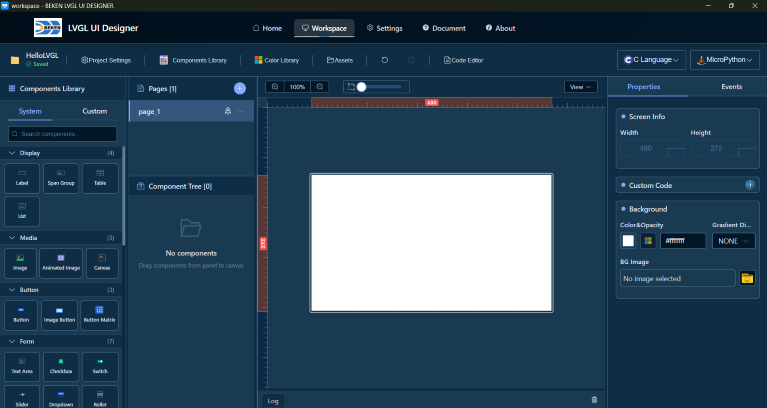
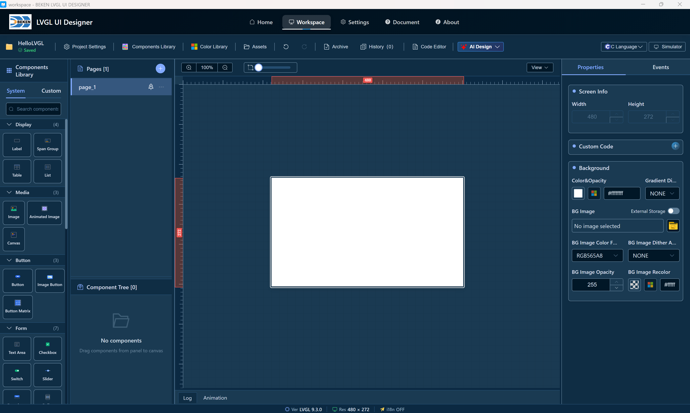
v3.0.1 releasenotes

diff --git a/doc/en/workspace-custom-code.md b/doc/en/workspace-custom-code.md
@@ -1,6 +1,6 @@
 # 🔧 Custom Code
 
-Besides designing the UI visually, you may need to add your own C or MicroPython logic. The tool offers **two approaches**—pick the one that fits your workflow, and **do not duplicate the same logic in both places**.
+Besides designing the UI visually, you may need to add your own C logic. The tool offers **two approaches**—pick the one that fits your workflow, and **do not duplicate the same logic in both places**.
 
 ---
 
@@ -11,7 +11,7 @@ Besides designing the UI visually, you may need to add your own C or MicroPython
 | **Where to edit** | Properties panel, event editor | Keil, VS Code, etc., open the `beken_generated` folder |
 | **Stored in** | Project file (saved with the project) | `.c` / `.h` files on disk |
 | **After regenerate** | Re-injected from the project | Only code **inside** `BEKEN_USER_CODE` markers is kept |
-| **Best for** | Quick experiments, MicroPython projects | C firmware, SDK integration, complex logic |
+| **Best for** | Quick experiments | C firmware, SDK integration, complex logic |
 
 **In-designer** has three entry points (all saved in the project):
 
@@ -41,9 +41,7 @@ Use when the page needs extra setup on load.
 2. Properties panel → **Custom Code** → **Add / Edit**
 3. Fill in **#include and variables** (inside `BEKEN_USER_CODE includes` in `page_*_init.c`) and **Implementation** (inside `BEKEN_USER_CODE implementation` in `init_page_xxx()`)
 
-> **Tip**: For C, page custom code shares the same `BEKEN_USER_CODE` markers with external IDE additions; designer content is refreshed on regenerate, hand-written content after it is preserved.
-
-> **Tip**: Supports both **C** and **MicroPython** tabs.
+> **Tip**: Page custom code shares the same `BEKEN_USER_CODE` markers with external IDE additions; designer content is refreshed on regenerate, hand-written content after it is preserved.
 
 ### Event custom code
 

diff --git a/doc/zh-cn/workspace-custom-code.md b/doc/zh-cn/workspace-custom-code.md
@@ -1,6 +1,6 @@
 # 🔧 自定义代码
 
-除了拖拽设计界面，您有时还需要补充自己的 C / MicroPython 逻辑。工具提供**两种方式**，请根据习惯选择，**不要在同一处重复写相同代码**。
+除了拖拽设计界面，您有时还需要补充自己的 C 逻辑。工具提供**两种方式**，请根据习惯选择，**不要在同一处重复写相同代码**。
 
 ---
 
@@ -11,7 +11,7 @@
 | **在哪里写** | 设计器属性面板、事件编辑器 | Keil、VS Code 等，打开 `beken_generated` 目录 |
 | **保存在哪** | 工程文件（随项目一起保存） | 磁盘上的 `.c` / `.h` 文件 |
 | **重新生成后** | 自动从工程写回 | 仅 `BEKEN_USER_CODE` 注释**里面**的代码会保留 |
-| **适合谁** | 快速试逻辑、MicroPython 项目 | C 固件开发、对接 SDK、写复杂业务 |
+| **适合谁** | 快速试逻辑 | C 固件开发、对接 SDK、写复杂业务 |
 
 **设计器内**包含三种入口，本质相同（都保存在工程里）：
 
@@ -41,9 +41,7 @@
 2. 属性面板 → **「自定义代码」** → **添加 / 编辑**
 3. 填写 **#include 和变量**（写入 `page_*_init.c` 的 `BEKEN_USER_CODE includes` 内）、**功能实现**（写入 `init_page_xxx()` 的 `BEKEN_USER_CODE implementation` 内）
 
-> **提示**：C 语言下，页面自定义代码与外部 IDE 追加代码共用同一对 `BEKEN_USER_CODE` 注释；设计器内容在重新生成时自动更新，其后手写内容会保留。
-
-> **提示**：支持 **C 语言** 与 **MicroPython** 两个标签页。
+> **提示**：页面自定义代码与外部 IDE 追加代码共用同一对 `BEKEN_USER_CODE` 注释；设计器内容在重新生成时自动更新，其后手写内容会保留。
 
 ### 2. 事件自定义代码
 

diff --git a/doc/en/getting-started.md b/doc/en/getting-started.md
@@ -26,6 +26,7 @@ When you first launch BEKEN LVGL UI Designer, you will see the home page with th
 3. Configure project information:
    - **Project Name**: Name your project (only numbers, letters, and underscores allowed)
    - **Save Location**: Choose the folder to save the project
+   - **LVGL Version**: Choose the target LVGL version (8.4.0 and 9.3.0 are recommended; 9.2.2 / 9.4.0 / 9.5.0 / 9.6.0 are experimental)
    - **Screen Size**: Set the screen resolution of the target device (e.g., 480x272)
 
 ![UI Designer Interface](/doc/images/create_step_2.png)
@@ -72,9 +73,12 @@ After creating the project, you will enter the workspace interface, which consis
 
 ### Preview Interface
 
-1. Select preview method:
-   - **C Language** - For standard LVGL projects, click **Generate + Compile + Run** in the menu
-   - **MicroPython** - For MicroPython environments, click **Generate + Run** in the menu
+1. Click the **"Simulator"** button in the toolbar to open the built-in JS simulator and preview immediately with the project's LVGL version—no external toolchain required
+2. Or click the **"C Language"** dropdown button and choose an operation:
+   - **Generate+Compile+Run** - Compile and run in the external simulator window (for standard LVGL projects)
+   - **Generate / Compile / Run** - Run each step separately
+   - **Full Clean** - Clean up generated artifacts
+3. The bottom **Log** panel opens automatically during execution, showing generation, compilation, and run output
 4. Code is generated in the project directory
 
 ![UI Designer Interface](/doc/images/simulator.png)

diff --git a/doc/zh-cn/getting-started.md b/doc/zh-cn/getting-started.md
@@ -26,6 +26,7 @@
 3. 配置项目信息：
    - **项目名称**：为您的项目命名(项目名称只能包含：数字，字母，下划线)
    - **保存位置**：选择项目保存的文件夹
+   - **LVGL版本**：选择目标 LVGL 版本（推荐 8.4.0 或 9.3.0；9.2.2 / 9.4.0 / 9.5.0 / 9.6.0 为实验性支持）
    - **屏幕尺寸**：设置目标设备的屏幕分辨率（例如：480x272）
 
 ![UI Designer 界面](/doc/images/create_step_2.png)
@@ -72,13 +73,13 @@
 
 ### 预览界面
 
-1. 点击工具栏 **「C语言」** 或 **「MicroPython」** 按钮
-2. 在下拉菜单中选择操作：
-   - **C 语言** - 适用于标准 LVGL 项目，可选择 **生成代码+编译+运行** 等操作
-   - **MicroPython** - 适用于 MicroPython 环境，可选择 **生成代码+运行** 等操作
+1. 点击工具栏 **「模拟器」** 按钮，在应用内直接打开 JS 模拟器，按项目选择的 LVGL 版本即时预览，无需外部工具链
+2. 或点击 **「C语言」** 下拉按钮，选择操作：
+   - **生成代码+编译+运行** - 编译并在外部模拟器窗口中运行，适用于标准 LVGL 项目
+   - **生成代码 / 编译 / 运行** - 分步执行
+   - **全部清理** - 清理生成产物
 3. 执行过程中会自动打开底部 **日志** 面板，显示生成、编译与运行的输出信息
-4. 选择 **运行** 或上述组合操作后，可查看界面预览效果
-5. 生成的代码保存在项目目录下
+4. 生成的代码保存在项目目录下
 
 ![UI Designer 界面](/doc/images/simulator.png)
 

diff --git a/doc/en/release-notes.md b/doc/en/release-notes.md
@@ -397,3 +397,24 @@ This document records all version updates for BEKEN LVGL UI Designer.
 - Support renaming projects
 - Support duplicating projects
 - Support removing projects from home page cards
+
+### 3.0.1
+
+#### Features
+
+- Simulator upgraded from MicroPython to JS + WASM rendering, providing better consistency and performance
+- Added **multi-LVGL-version support**: 8.4.0 / 9.2.2 / 9.3.0 / 9.4.0 / 9.5.0 / 9.6.0
+- AI Design now supports Qoder
+- Timeline animation now supports Rotation keyframes
+
+#### Optimizations
+
+- Improved responsiveness when opening projects, dragging/selecting on the canvas, and using the property panel
+- Improved canvas performance for high-resolution projects and projects with a large number of widgets
+- Improved canvas interaction experience
+
+#### Bug Fixes
+
+- Fixed some component style and property fields not taking effect
+- Fixed the failure to compile the PC simulator when dynamic TTF fonts are stored on an SD card or Flash and only "C Compile" is clicked
+- Button default text alignment changed to center, and a Padding style group is exposed

diff --git a/doc/zh-cn/release-notes.md b/doc/zh-cn/release-notes.md
@@ -405,3 +405,26 @@
 - 支持修改工程名称
 - 支持复制工程
 - 支持从首页卡片中移除工程
+
+
+### 3.0.1
+
+#### 功能
+
+- 模拟器由MicroPython升级为JS + WASM渲染，一致性更强，性能更好
+- 新增 **LVGL 多版本支持**：8.4.0 / 9.2.2 / 9.3.0 / 9.4.0 / 9.5.0 / 9.6.0
+- AI 设计新增 Qoder 编辑器支持
+- 时间轴动画关键帧新增旋转（Rotation）属性支持
+
+
+#### 优化
+
+- 优化打开工程、画布拖拽/选择与属性面板的响应性能
+- 优化大分辨率工程、大量组件工程的画布性能体验
+- 优化画布交互体验
+
+#### Bug修复
+
+- 修复了部分组件样式、属性字段不生效的问题
+- 修复动态 TTF 字体存储在 SD 卡或 Flash 时，单独点击“C 编译”会导致电脑模拟器编译失败的问题
+- 按钮组件默认文本对齐方式改为居中，并开放内边距（Padding）样式组

diff --git a/doc/zh-cn/workspace-ai-design.md b/doc/zh-cn/workspace-ai-design.md
@@ -225,7 +225,7 @@ AI 可通过 MCP 完成常见设计操作，例如：
 
 | 现象 | 处理方式 |
 | --- | --- |
-| **「AI设计」按钮灰色不可用** | 当前有 C 语言或 MicroPython 预览 / 编译 / 运行在进行。停止相关操作后再试。 |
+| **「AI设计」按钮灰色不可用** | 当前有 C 语言编译 / 运行或 JS 模拟器正在进行。停止相关操作后再试。 |
 | **下拉菜单显示「未安装」** | 电脑上未安装 Cursor、Codex 或 TRAE。请先安装对应 AI 工具。 |
 | **提示无法修改界面 / 未打开项目** | 请先在 Designer 中打开项目并进入工作台，再从「AI设计」启动。 |
 | **提示未进入工作台** | 请从项目管理页进入项目工作台，不要停留在首页。 |

diff --git a/doc/en/workspace-ai-design.md b/doc/en/workspace-ai-design.md
@@ -225,7 +225,7 @@ Some advanced features (complex event chains, fine-grained timeline animation tu
 
 | Issue | What to do |
 | --- | --- |
-| **AI Design button is disabled** | C or MicroPython preview / compile / run is active. Stop it and try again. |
+| **AI Design button is disabled** | A C language compile/run or the JS simulator is active. Stop it and try again. |
 | **Dropdown shows "Not installed"** | Cursor, Codex, TRAE, or TRAE CN is not installed. Install the AI tool first. |
 | **Cannot modify UI / no project open** | Open a project and enter the workspace in Designer, then launch from **AI Design**. |
 | **Not in workspace** | Enter the project workspace from the home page; do not stay on the project list. |

diff --git a/doc/en/workspace-archive-history.md b/doc/en/workspace-archive-history.md
@@ -26,9 +26,9 @@ After the archive is created, the button in the Current Version card changes to 
 
 <img src="/doc/images/archive_history_dialog.png" alt="Archives and History Dialog" style="max-width: 680px; width: 90%; height: auto; display: block; margin: 16px auto;" />
 
-## Run MicroPython Preview
+## Preview in the Simulator
 
-In the history dialog, click the **MicroPython** button in the upper-right corner of the preview area to generate and run MicroPython based on the currently displayed version.
+After selecting a version, click the **"Run in Simulator"** button above the preview area to preview that version in the built-in JS simulator.
 
 ## Restore an Archived Version
 

diff --git a/doc/zh-cn/workspace-toolbar.md b/doc/zh-cn/workspace-toolbar.md
@@ -88,7 +88,7 @@
 #### 代码预览
 
 **查看生成的代码**：
-1. 点击工具栏 **「C语言」** 或 **「MicroPython」** 按钮进行预览
+1. 点击工具栏 **「模拟器」** 按钮在应用内直接预览，或点击 **「C语言」** 下拉按钮编译并在外部模拟器窗口中运行
 2. 使用 **代码编辑器** 查看 `beken_generated` 目录下的生成文件
    - 生成文件（如 `page_*_init.c`）为**只读**
    - 仅 `custom/` 目录与 `custom_func.c/h` 可在设计器内编辑

diff --git a/doc/zh-cn/workspace-archive-history.md b/doc/zh-cn/workspace-archive-history.md
@@ -28,9 +28,9 @@
 选择历史版本后，可以在左侧页面列表中切换页面，中间预览区会显示对应页面效果。
 
 
-## 运行 MicroPython 预览
+## 在模拟器中预览
 
-选择历史版本后，点击预览区右上角的 **MicroPython** 按钮，可以基于该历史版本运行 MicroPython 预览。
+选择历史版本后，点击预览区上方的 **「在模拟器中运行」** 按钮，可以基于该历史版本在应用内运行 JS 模拟器预览。
 
 
 ## 恢复历史版本

diff --git a/doc/en/workspace-toolbar.md b/doc/en/workspace-toolbar.md
@@ -80,7 +80,7 @@ The resource manager is used to manage all resource files used in the project.
 #### Code Preview
 
 **View Generated Code**:
-1. Click **"C Language"** or **"MicroPtyon"**  button in toolbar
+1. Click the **"Simulator"** button to preview in-app, or click the **"C Language"** dropdown button to compile and run in the external simulator window
 
 ![UI Designer Interface](/doc/images/preview.png)
 
